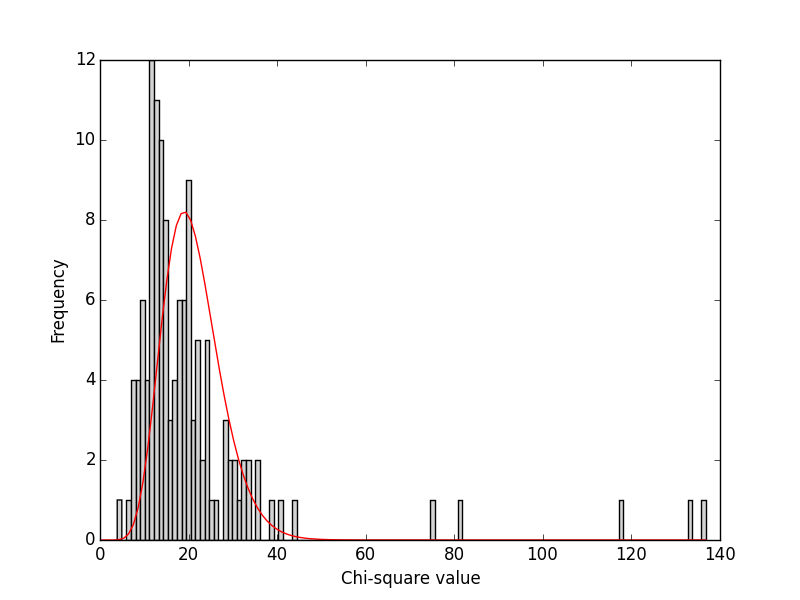
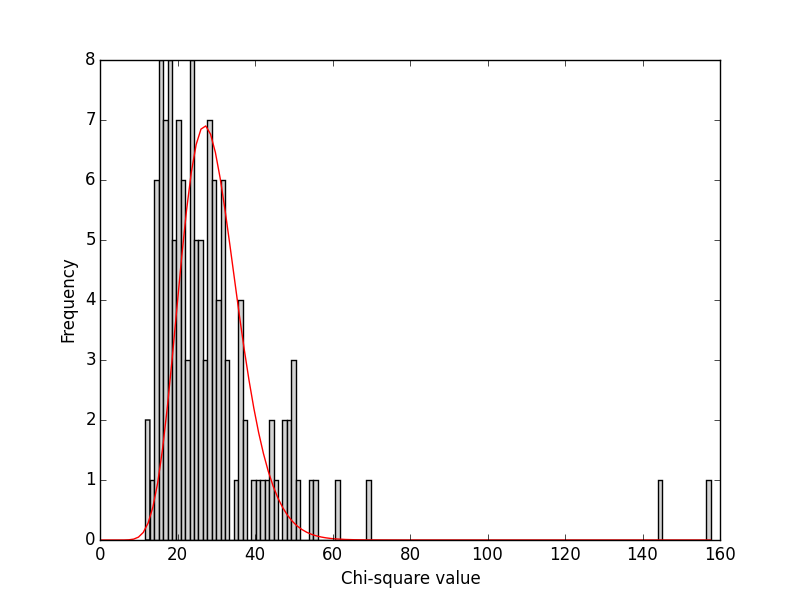
residual plots for run with 7 average

diff --git a/Geiger/geigerStats1.py b/Geiger/geigerStats1.py
@@ -277,24 +277,30 @@ plt.legend(fontsize=8)
 exec("plt.savefig('totalbincounts_%s.png',dpi=150,pad_inches=10)"%int(overallMean))
 
 # Residuals - Poisson 
+ye = [numpy.sqrt(totalBinCounts[i]) for i in range(len(totalBinCounts))]
 residuals = numpy.transpose(numpy.subtract(poisson1,totalBinCounts))
 plt.figure(figsize=(8,6), dpi=150)
 plt.ticklabel_format(style='sci', axis='y', scilimits=(0,0))
 plt.xlabel("Total events per interval",fontsize=12)
 plt.ylabel("Residual value \n(predicted frequency - observed frequency)",fontsize=12)
-plt.plot(xvals, residuals,'o')
+plt.errorbar(xvals, residuals, yerr=ye, fmt='o')
+plt.plot([0,25],[0,0])
 plt.legend(fontsize=8)
 exec("plt.savefig('Poissonresiduals_%s.png',dpi=150)"%int(overallMean))
 
+
 # Residuals - Gaussian 
+ye = [numpy.sqrt(totalBinCounts[i]) for i in range(len(totalBinCounts))]
 residuals = numpy.transpose(numpy.subtract(gaussian1,totalBinCounts))
 plt.figure(figsize=(8,6), dpi=150)
 plt.ticklabel_format(style='sci', axis='y', scilimits=(0,0))
 plt.xlabel("Total events per interval",fontsize=12)
 plt.ylabel("Residual value \n(predicted frequency - observed frequency)",fontsize=12)
-plt.plot(xvals, residuals,'o')
+plt.errorbar(xvals, residuals, yerr=ye, fmt='o')
+plt.plot([0,25],[0,0])
 plt.legend(fontsize=8)
 exec("plt.savefig('Gaussianresiduals__%s.png',dpi=150)"%int(overallMean))
+
 
 # Variance vs. mean - Poisson
 plt.figure(figsize=(8,6), dpi=150)
@@ -305,6 +311,7 @@ plt.plot(colMean, colVar,'o')
 plt.legend(fontsize=8)
 exec("plt.savefig('Poissonvarmean_%s.png',dpi=150)"%int(overallMean))
 
+
 # Chi square - Poisson 
 plt.figure(figsize=(8,6), dpi=150)
 plt.hist(csp1024,bins=1024,color='lightgrey')
@@ -313,186 +320,7 @@ x = numpy.linspace(0,max(csp1024),num=512)
 y = numpy.multiply(chi2.pdf(x,df),1024)
 plt.xlabel("Chi-square value",fontsize=12)
 plt.ylabel("Frequency",fontsize=12)
-plt.plot(x,y,color='red')
+plt.plot(x,y,color='red',label="Chi-square distribution for %d degrees of freedom"%df)
+plt.legend(fontsize=8)
 plt.savefig('chisq_1024.png')
 
-# Chi square - Poisson 
-plt.figure(figsize=(8,6), dpi=150)
-plt.hist(csp128,bins=128,color='lightgrey')
-df = totalDOF-1
-x = numpy.linspace(0,max(csp128),num=128)
-y = numpy.multiply(chi2.pdf(x,df),128)
-plt.xlabel("Chi-square value",fontsize=12)
-plt.ylabel("Frequency",fontsize=12)
-plt.plot(x,y,color='red')
-plt.savefig('chisq_128.png')
-
-#################################### UNUSED CODE ####################################
-"""
-# g-chisquare and p-chisquare: difference between actual bin result and predicted Gaussian/Poisson bin result 
-# calculate for each bin (22 bins)
-# 128 x 22
-def chiSquare (data,var,pdf):
-	tot = 0
-	for i in range (len(data)):
-     # ignore if variance is zero 
-		if var(i) != 0:
-			tot = tot + float(((data(i)-pdf(i))**2)/var(i))
-         return tot
-# we get 128/2 lists of 22 chisquares
-# what is the error on each bin ? difficult!!!
-g-chiSquare = [chiSquare(compressed1, replicaVarData, replicaGaussianDist) for i in range(compressed1)] 
-p-chiSquare = [chiSquare(compressed2, replicaVarData, replicaPoissonDist) for i in range(compressed1)]
-
-
-observedBinCounts = numpy.empty(len(gDataTransposed))
-for i in range(len(gDataTransposed)):
-    observedBinCounts[i] = numpy.sum(gDataTransposed[i])
-
- # twice the number of intervals per replica.
-
-    
-compressed1 = compress(gData)  
-
-gData_64 = compress(gData)
-gData_32 = compress(gData_64)
-gData_16 = compress(gData_32)
-gData_8 = compress(gData_16)
-gData_4 = compress(gData_8)
-gData_2 = compress(gData_4)
-gData_1 = compress(gData_2)
-
-
-
-# 128 trials
-cv = colVar
-
-poisson128 = findPoisson(gData)
-csp128 = chiSquare(gData,poisson128,cv) 
-gaussian128 = findGaussian(gData)
-csg128 = chiSquare(gData,gaussian128,cv)
-
-
-# 64 trials 
-cv = cVar(gData_64, colMean)
-
-poisson64 = findPoisson(gData_64)
-csp64 = chiSquare(gData_64,poisson64,cv) 
-gaussian64 = findGaussian(gData_64)
-csg64 = chiSquare(gData_64,gaussian64,cv)
-
-
-# 32 trials 
-cv = cVar(gData_32, colMean)
-
-poisson32 = findPoisson(gData_32)
-csp32 = chiSquare(gData_32,poisson32,cv) 
-gaussian32 = findGaussian(gData_32)
-csg32 = chiSquare(gData_32,gaussian32,cv)
-
-
-# 16 trials 
-cv = cVar(gData_16, colMean)
-
-poisson16 = findPoisson(gData_16)
-csp16 = chiSquare(gData_16,poisson16,cv) 
-gaussian16 = findGaussian(gData_16)
-csg16 = chiSquare(gData_16,gaussian16,cv)
-
-
-# 8 trials 
-cv = cVar(gData_8, colMean)
-
-poisson8 = findPoisson(gData_8)
-csp8 = chiSquare(gData_8,poisson8,cv) 
-gaussian8 = findGaussian(gData_8)
-csg8 = chiSquare(gData_8,gaussian8,cv)
-
-
-# 4 trials 
-cv = cVar(gData_4, colMean)
-
-poisson4 = findPoisson(gData_4)
-csp4 = chiSquare(gData_4,poisson4,cv) 
-gaussian4 = findGaussian(gData_4)
-csg4 = chiSquare(gData_4,gaussian4,cv) 
-
-
-# 2 trials 
-cv = cVar(gData_2, colMean)
-
-poisson2 = findPoisson(gData_2)
-csp2 = chiSquare(gData_2,poisson2,cv) 
-gaussian2 = findGaussian(gData_2)
-csg2 = chiSquare(gData_2,gaussian2,cv)
-
-
-# 1 trial
-cv = cVar(gData_1, colMean)
-
-poisson1 = findPoisson(gData_1)
-csp1 = chiSquare(gData_1,poisson1,cv) 
-gaussian1 = findGaussian(gData_1)
-csg1 = chiSquare(gData_1,gaussian1,cv)
-
-
-
-# we must see that the result is noisy must either increase the number of intervals more than 64 or add replicas together
-#we just repeat the collapse of the data set again compressed2 = compress(compressed1) 
-# we do it consecutively and compare distributions 
-# finally we take chisquare by meanCol,colVar if u want to get only one overall chi square for each bin so a list of 22 elements 
-#g-chiSquare = [chiSquare(meanCol, varCol, replicaGaussianDist) for i in range(meanCol)] 
-#p-chiSquare = [chiSquare(meanCol, varCol, replicaPoissonDist) for i in range(meanCol)]
-# the variance is not it !
-
-                
-xvals = numpy.linspace(0,21,num=22)
-plt.plot(xvals,replicaPoissonDist,'+')
-plt.plot(xvals,observedBinCounts,'o')
-#calculated values
-#plt.plot(xvals,replicaGaussianDist,'o')
-
-
-p128 = gt(poissonChiSq,csp128)
-p64 = gt(poissonChiSq,csp64) 
-p32 = gt(poissonChiSq,csp32) 
-p16 = gt(poissonChiSq,csp16) 
-p8 = gt(poissonChiSq,csp8) 
-p4 = gt(poissonChiSq,csp4) 
-p2 = gt(poissonChiSq,csp2) 
-p1 = gt(poissonChiSq,csp1)
-
-
-print("Poisson distribution for 21 degrees of freedom: \n12.5% of values must be greater than %f\n"%(poissonChiSq))
-print("%d replicas with %d intervals each: %f percent of values greater than %f"%(128,64, p128, poissonChiSq))
-print("%d replicas with %d intervals each: %f percent of values greater than %f"%(64,128, p64, poissonChiSq))
-print("%d replicas with %d intervals each: %f percent of values greater than %f"%(32,256, p32, poissonChiSq))
-print("%d replicas with %d intervals each: %f percent of values greater than %f"%(16,512, p16, poissonChiSq))
-print("%d replicas with %d intervals each: %f percent of values greater than %f"%(8,1024, p8, poissonChiSq))
-print("%d replicas with %d intervals each: %f percent of values greater than %f"%(4,2048, p4, poissonChiSq))
-print("%d replicas with %d intervals each: %f percent of values greater than %f"%(2,4096, p2, poissonChiSq))
-print("%d replicas with %d intervals each: %f percent of values greater than %f"%(1,8192, p1, poissonChiSq))
-
-
-print("\n\n")
-
-g1 = gt(gaussianChiSq, csg1)
-g2 = gt(gaussianChiSq, csg2)
-g4 = gt(gaussianChiSq, csg4)
-g8 = gt(gaussianChiSq, csg8)
-g16 = gt(gaussianChiSq, csg16)
-g32 = gt(gaussianChiSq, csg32)
-g64 = gt(gaussianChiSq, csg64)
-g128 = gt(gaussianChiSq, csg128)
-
-print("Gaussian distribution for 20 degrees of freedom: \n12.5 percent of values must be greater than %f\n"%(gaussianChiSq))
-print("%d replicas with %d intervals each: %f percent of values greater than %f"%(128,64, g128, gaussianChiSq))
-print("%d replicas with %d intervals each: %f percent of values greater than %f"%(64,128, g64, gaussianChiSq))
-print("%d replicas with %d intervals each: %f percent of values greater than %f"%(32,256, g32, gaussianChiSq))
-print("%d replicas with %d intervals each: %f percent of values greater than %f"%(16,512, g16, gaussianChiSq))
-print("%d replicas with %d intervals each: %f percent of values greater than %f"%(8,1024, g8, gaussianChiSq))
-print("%d replicas with %d intervals each: %f percent of values greater than %f"%(4,2048, g4, gaussianChiSq))
-print("%d replicas with %d intervals each: %f percent of values greater than %f"%(2,4096, g2, gaussianChiSq))
-print("%d replicas with %d intervals each: %f percent of values greater than %f"%(1,8192, g1, gaussianChiSq))
-
-"""
